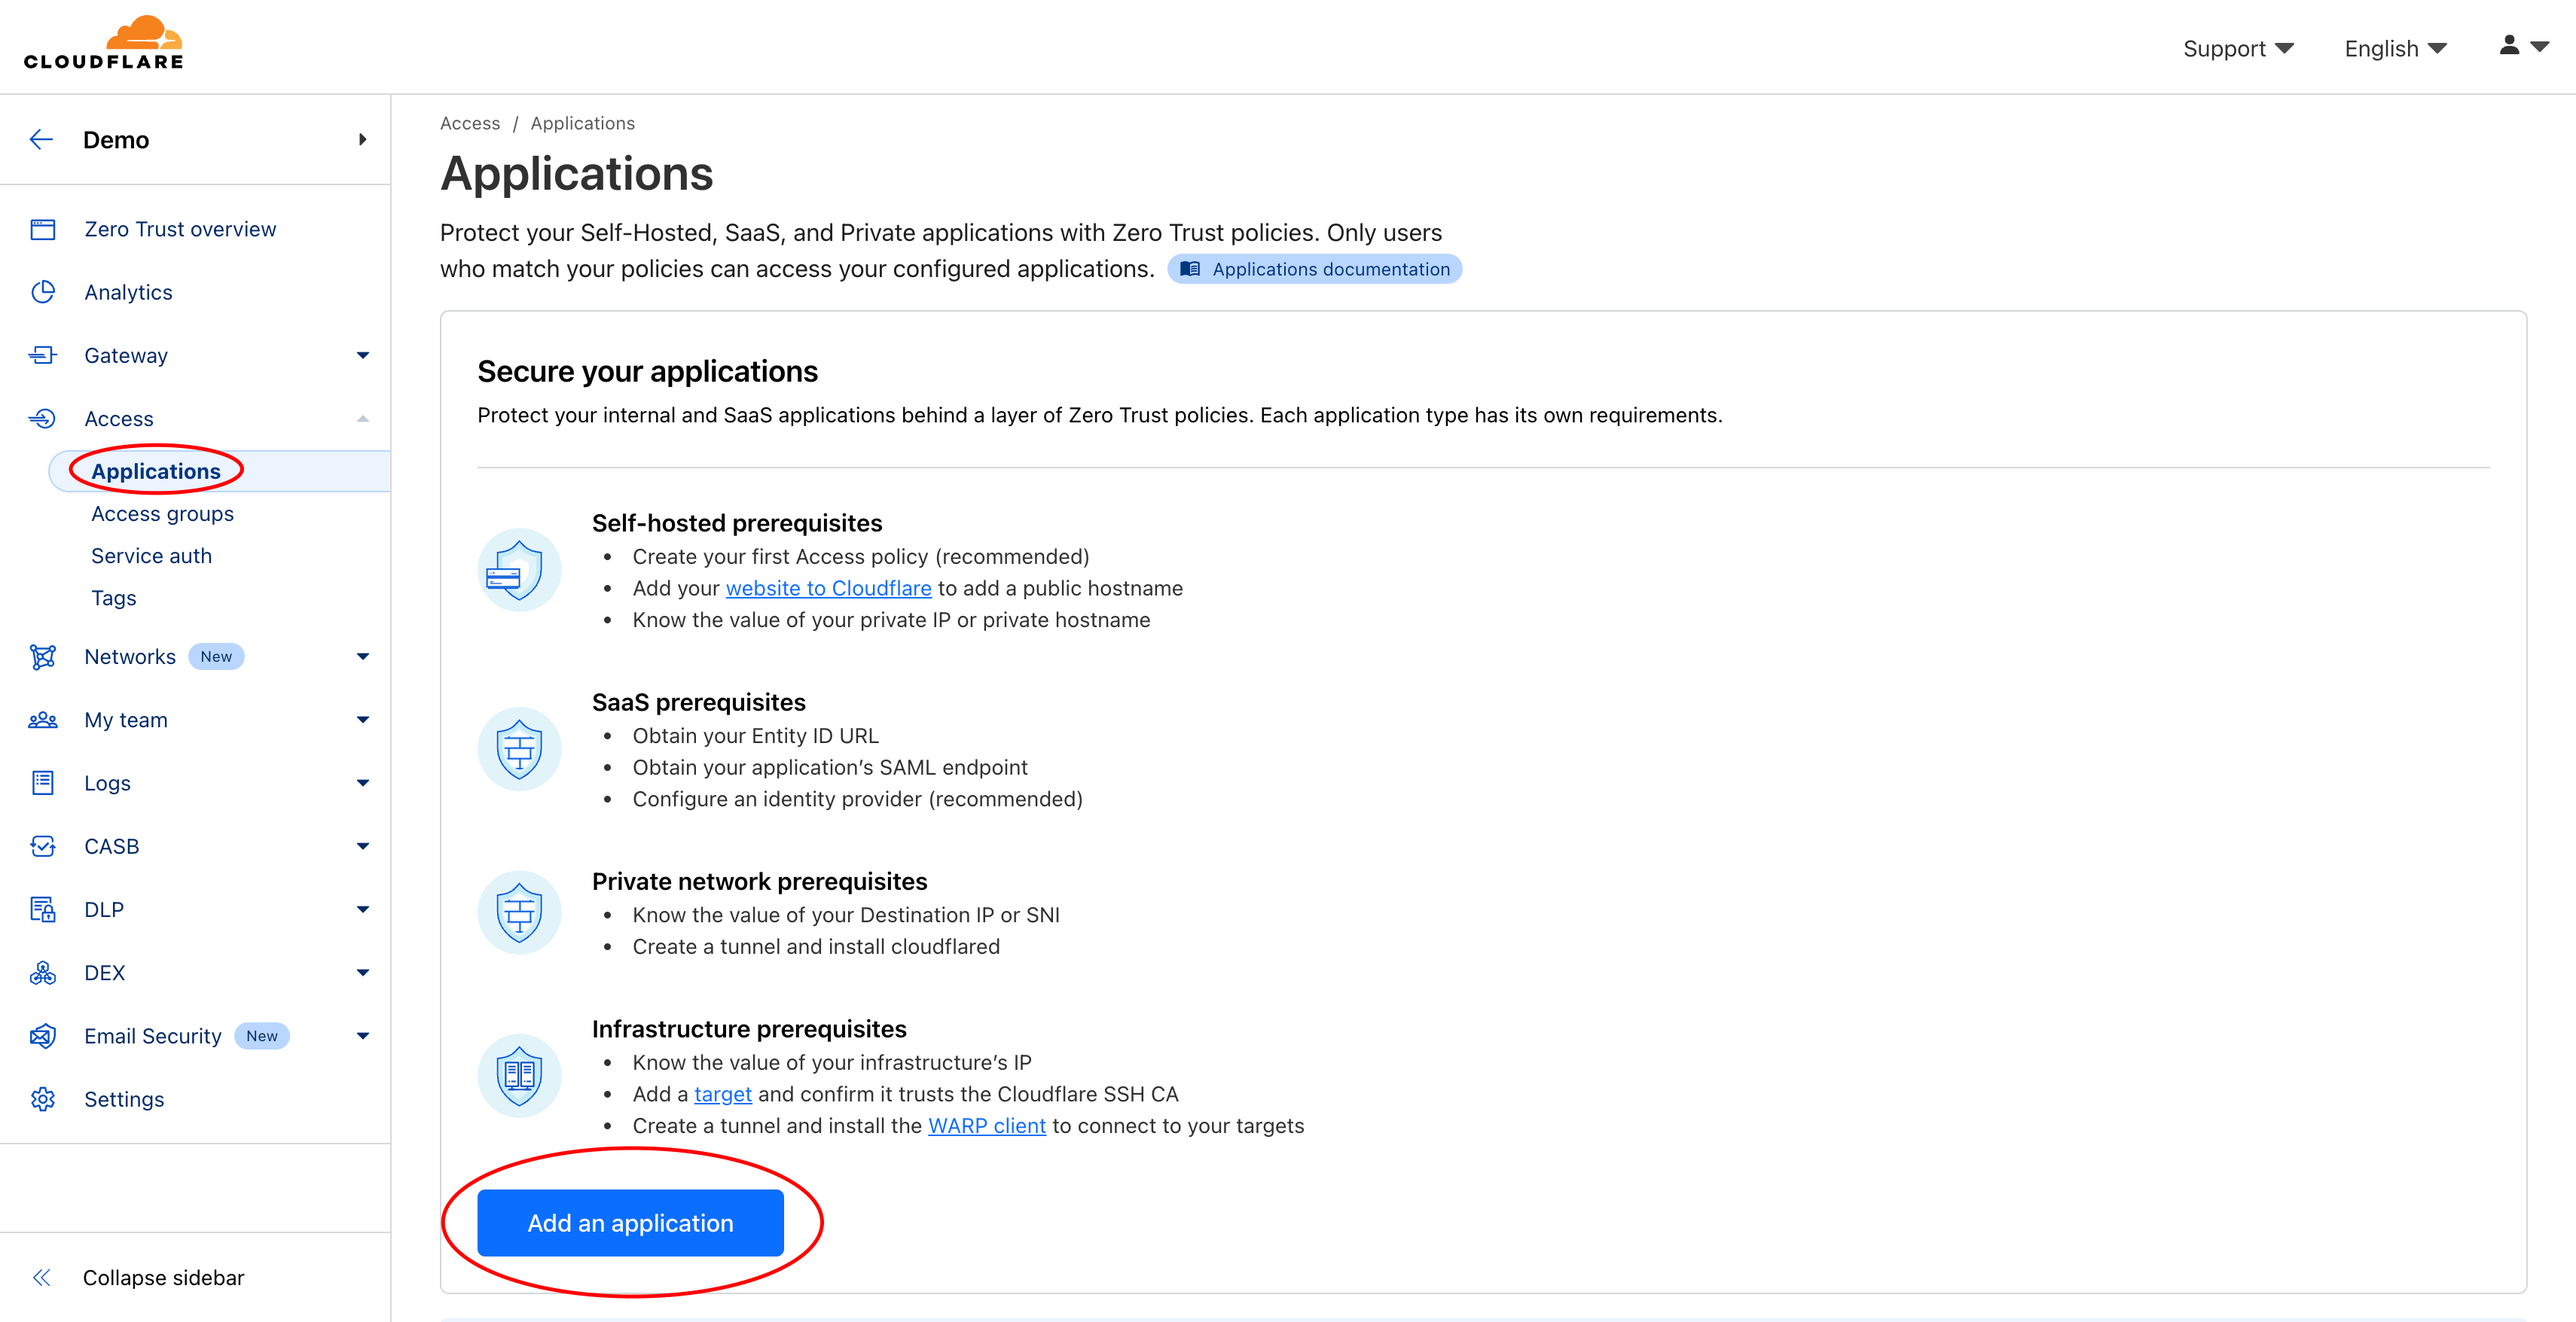
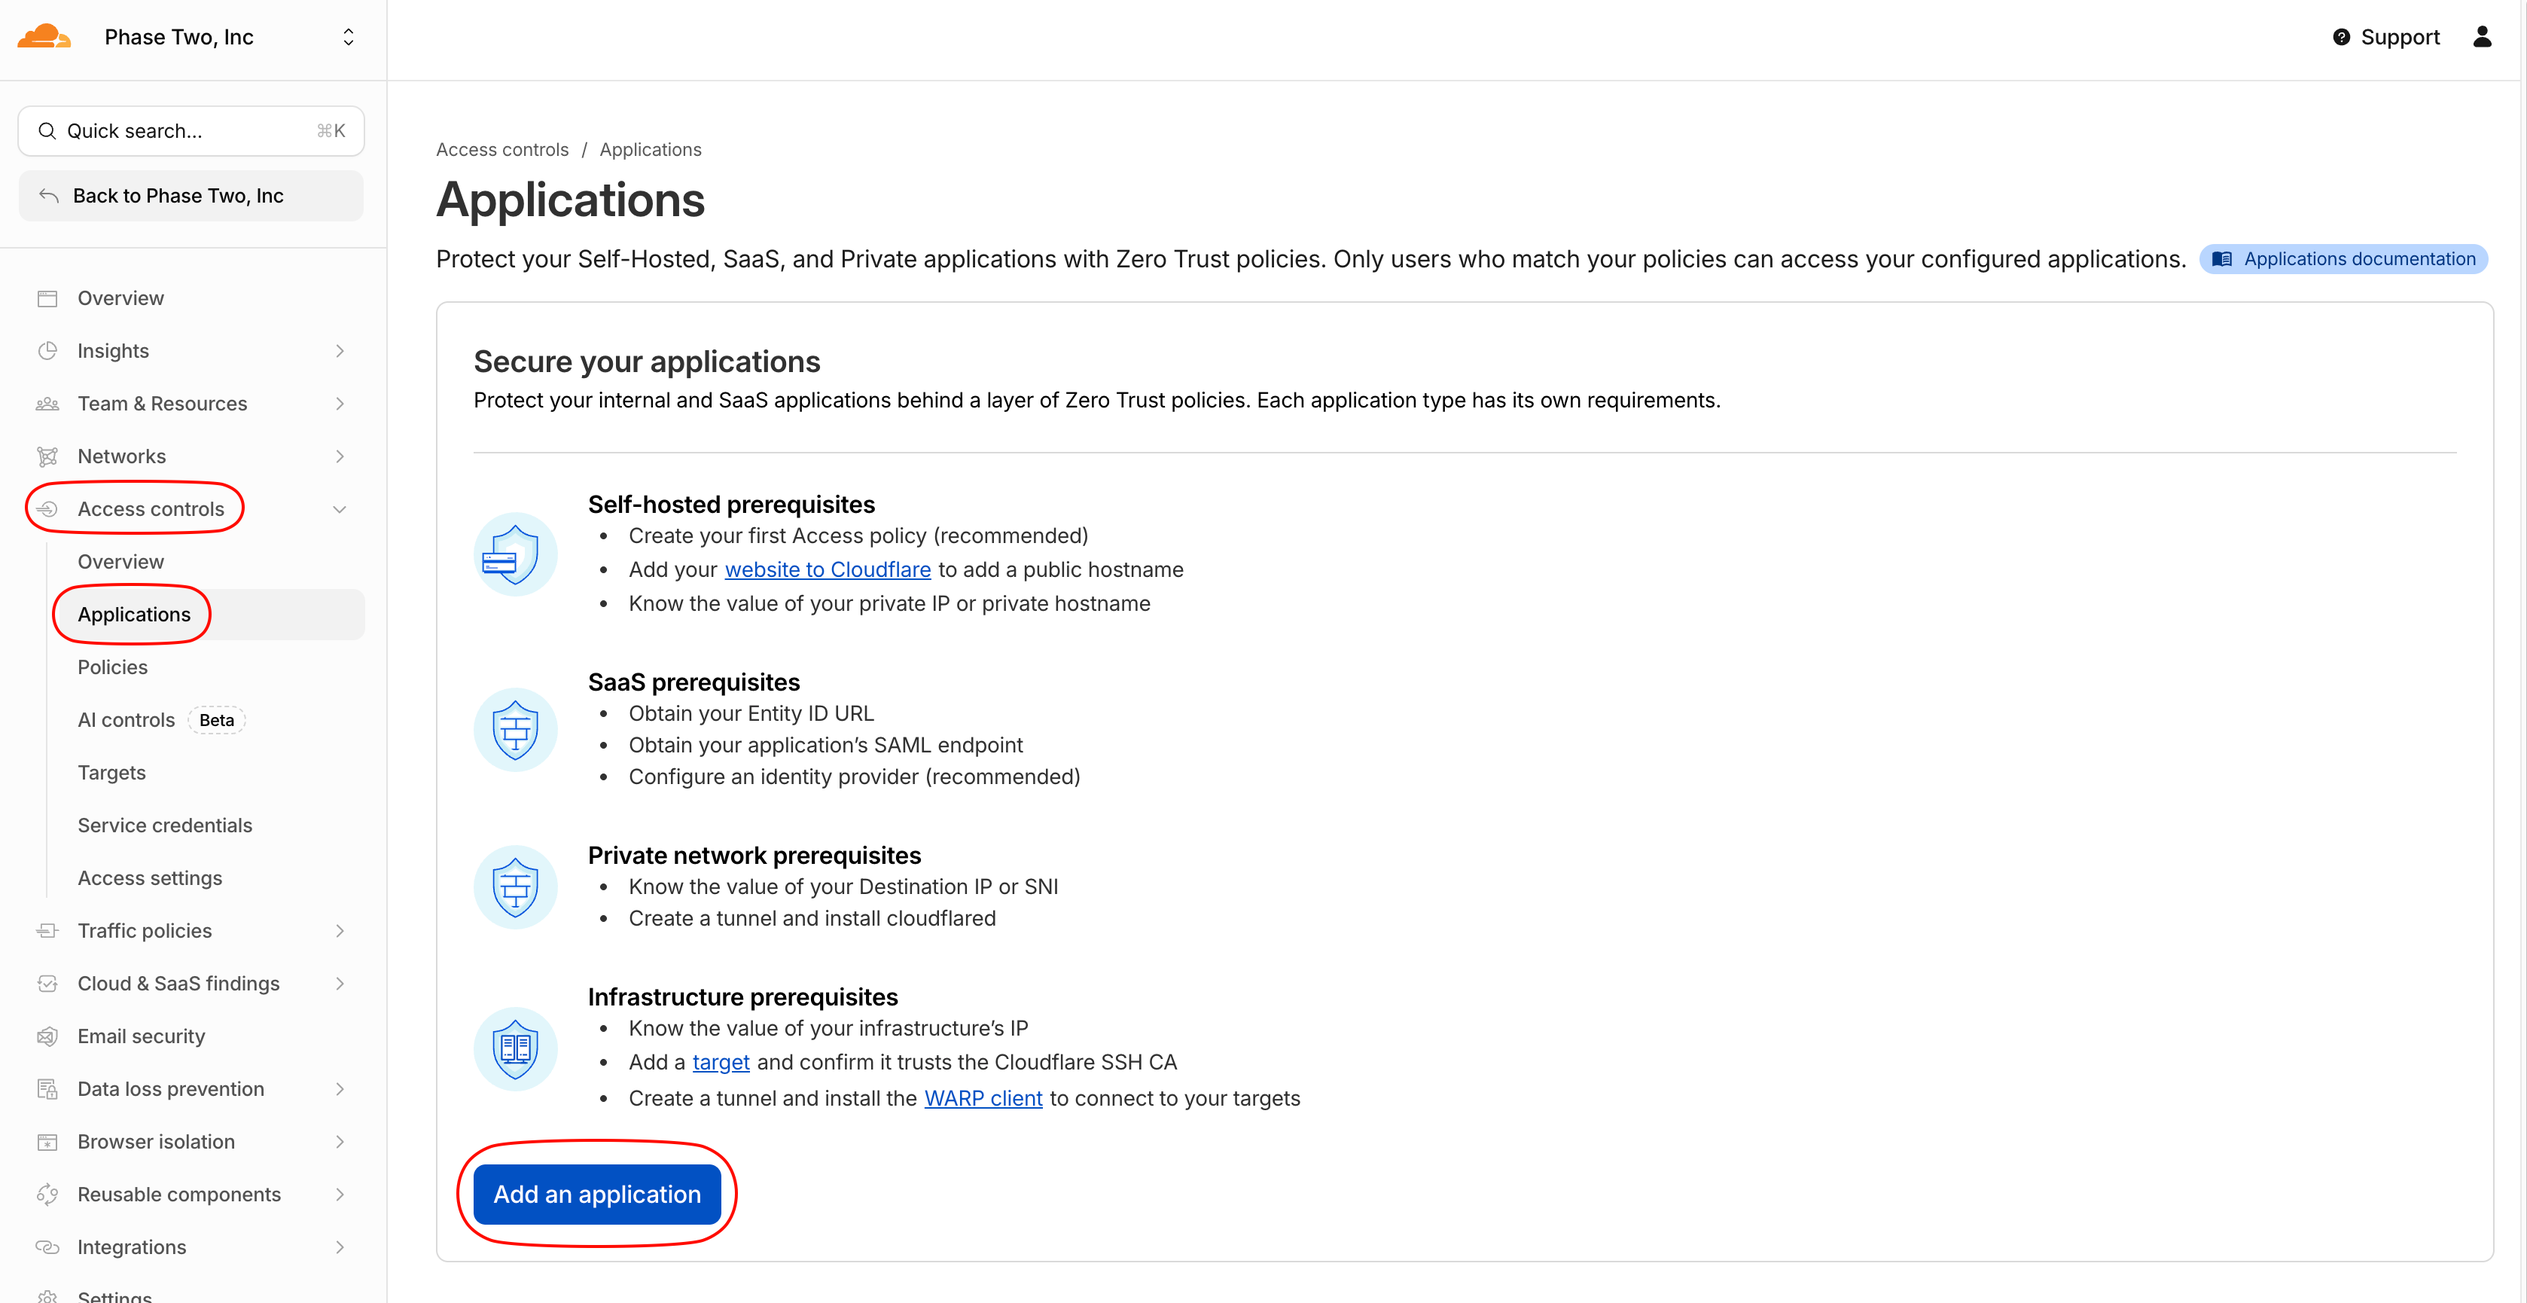
Cloudflare screenshots need refreshing Fixes #229

diff --git a/src/app/components/IdentityProviderWizard/Wizards/Providers/Cloudflare/SAML/Steps/1.tsx b/src/app/components/IdentityProviderWizard/Wizards/Providers/Cloudflare/SAML/Steps/1.tsx
@@ -7,9 +7,9 @@ export function CloudflareStepOne() {
     {
       text: (
         <div>
-          In your Cloudflare Zero Trust dashboard, select{" "}
-          <b>Access</b> and <b>Applications</b> from the sidebar menu, then
-          choose <b>Add an application</b>.
+          In your Cloudflare Zero Trust dashboard, select <b>Access controls</b>{" "}
+          and <b>Applications</b> from the sidebar menu, then choose{" "}
+          <b>Add an application</b>.
         </div>
       ),
       component: <StepImage src={Images.CloudflareSaml0} alt="Step 1.1" />,
@@ -17,7 +17,8 @@ export function CloudflareStepOne() {
     {
       text: (
         <div>
-          On the <b>Add an application</b> page, select <b>SaaS</b> as the application type.
+          On the <b>Add an application</b> page, select <b>SaaS</b> as the
+          application type.
         </div>
       ),
       component: <StepImage src={Images.CloudflareSaml1} alt="Step 1.2" />,
@@ -26,12 +27,13 @@ export function CloudflareStepOne() {
       text: (
         <div>
           In the <b>Basic Information</b> section, enter a display name for the{" "}
-          application. Set the authentication protocol to <b>SAML</b> by clicking the{" "}
-          <b>Select SAML</b> button, then click <b>Add Application</b>.
+          application. Set the authentication protocol to <b>SAML</b> by
+          clicking the <b>Select SAML</b> button, then click{" "}
+          <b>Add Application</b>.
         </div>
       ),
       component: <StepImage src={Images.CloudflareSaml2} alt="Step 1.3" />,
-    }
+    },
   ];
 
   return (

diff --git a/src/app/components/IdentityProviderWizard/Wizards/Providers/Cloudflare/SAML/Steps/4.tsx b/src/app/components/IdentityProviderWizard/Wizards/Providers/Cloudflare/SAML/Steps/4.tsx
@@ -15,7 +15,9 @@ export function CloudflareStepFour() {
           In the <b>SAML attribute statements</b> section, provide the following
           attribute statements by clicking <b>+ Add Statement</b> for each
           attribute. Set the <b>Name Format</b> for each attribute to{" "}
-          <b>Basic</b>. Copy the following
+          <b>Unspecified</b>. In order to set the format to Basic, you would be
+          required to have an identity provider configured so that it could map
+          attributes. See the note below. Copy the following
         </div>
       ),
       component: <StepImage src={Images.CloudflareSaml5} alt="Step 4.1" />,
@@ -28,7 +30,9 @@ export function CloudflareStepFour() {
           Ensure that your identity provider is configured to provide these
           attributes to Cloudflare or adjust the attribute mapping as needed.{" "}
           The built-in OTP identity provider does not provide <b>firstName</b>{" "}
-          or <b>lastName</b> attributes.
+          or <b>lastName</b> attributes. Set up identity providers for
+          Cloudflare to use by going to Integrations {">"} Identity Providers
+          and adding a provider. Do this is out of scope of the current wizard.
         </div>
       ),
     },

diff --git a/src/app/components/IdentityProviderWizard/Wizards/Providers/Cloudflare/SAML/Steps/5.tsx b/src/app/components/IdentityProviderWizard/Wizards/Providers/Cloudflare/SAML/Steps/5.tsx
@@ -9,7 +9,9 @@ export function CloudflareStepFive() {
     {
       text: (
         <div>
-          Set a name for the access policy, then add any groups or rules defining who can access the application.
+          Add a policy to your app. If you do not have one created yet, then you
+          must do so from the in Access Control {">"} Policies or click "+
+          Create New Policy".
         </div>
       ),
       component: <StepImage src={Images.CloudflareSaml6} alt="Step 5.1" />,
@@ -17,11 +19,21 @@ export function CloudflareStepFive() {
     {
       text: (
         <div>
-          Click <b>Done</b> to finish creating the access policy.
+          Set a name for the access policy, then add any groups or rules
+          defining who can access the application.
         </div>
       ),
       component: <StepImage src={Images.CloudflareSaml7} alt="Step 5.2" />,
-    }
+    },
+    {
+      text: (
+        <div>
+          Assign the policy to the application by selecting it from the dropdown
+          menu, then click <b>Confirm</b>.
+        </div>
+      ),
+      component: <StepImage src={Images.CloudflareSaml8} alt="Step 5.3" />,
+    },
   ];
 
   return (

diff --git a/src/app/images/cloudflare/saml/index.ts b/src/app/images/cloudflare/saml/index.ts
@@ -6,6 +6,7 @@ import CloudflareSaml4 from "./cloudflare_saml_4.png";
 import CloudflareSaml5 from "./cloudflare_saml_5.png";
 import CloudflareSaml6 from "./cloudflare_saml_6.png";
 import CloudflareSaml7 from "./cloudflare_saml_7.png";
+import CloudflareSaml8 from "./cloudflare_saml_8.png";
 
 export {
   CloudflareSaml0,
@@ -16,4 +17,5 @@ export {
   CloudflareSaml5,
   CloudflareSaml6,
   CloudflareSaml7,
+  CloudflareSaml8,
 };
